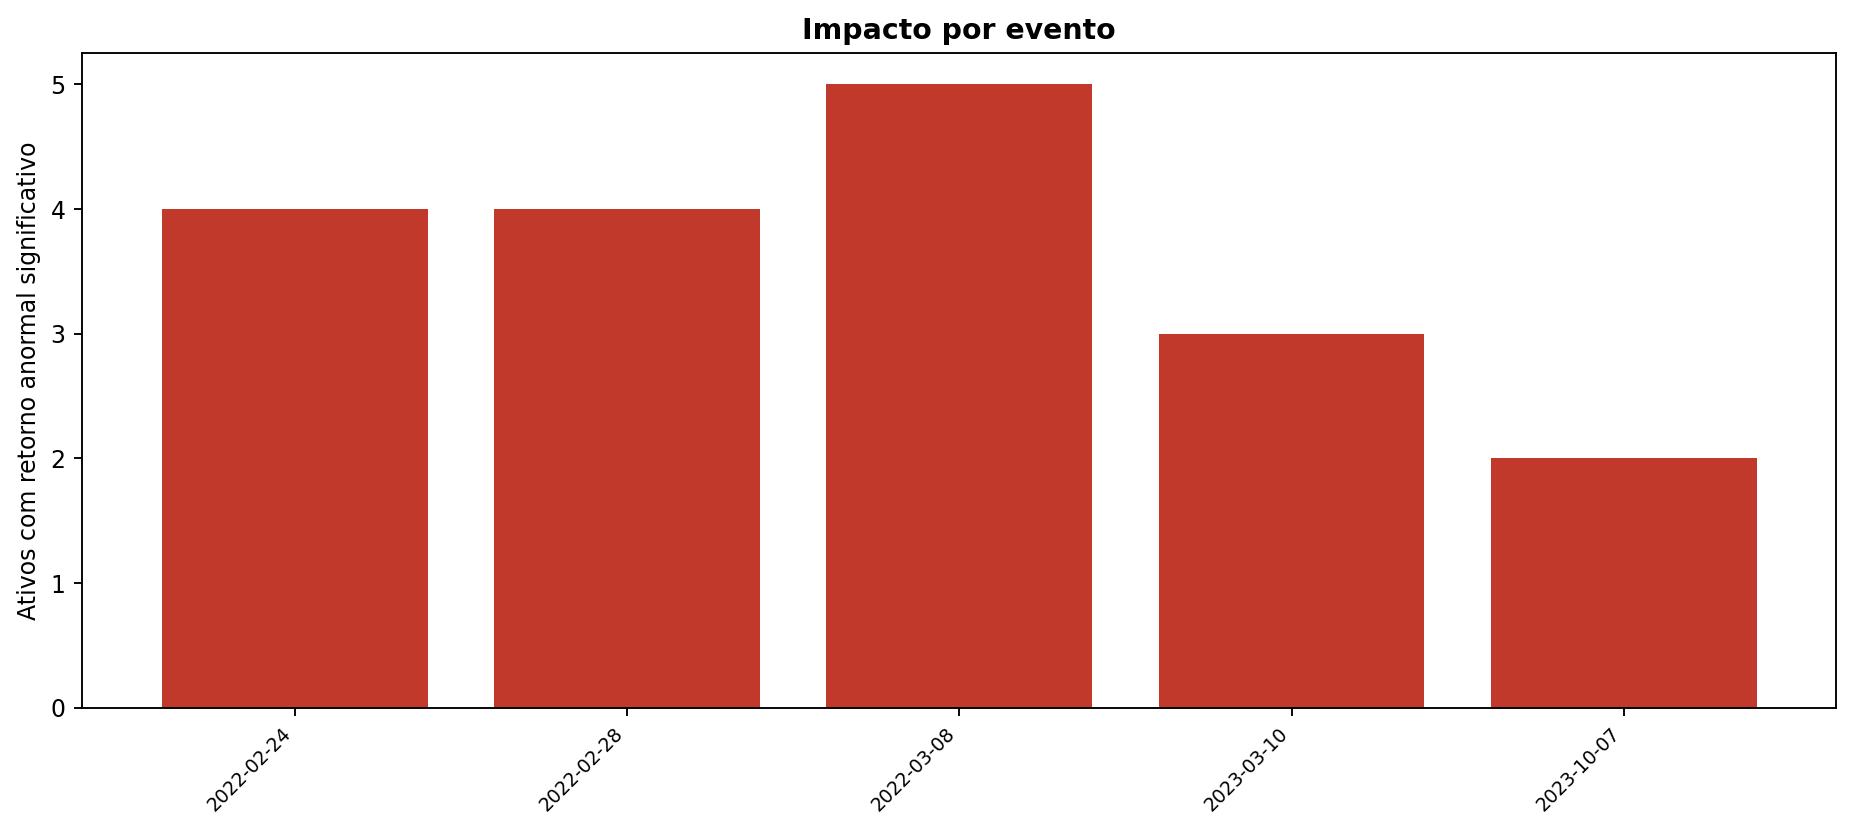
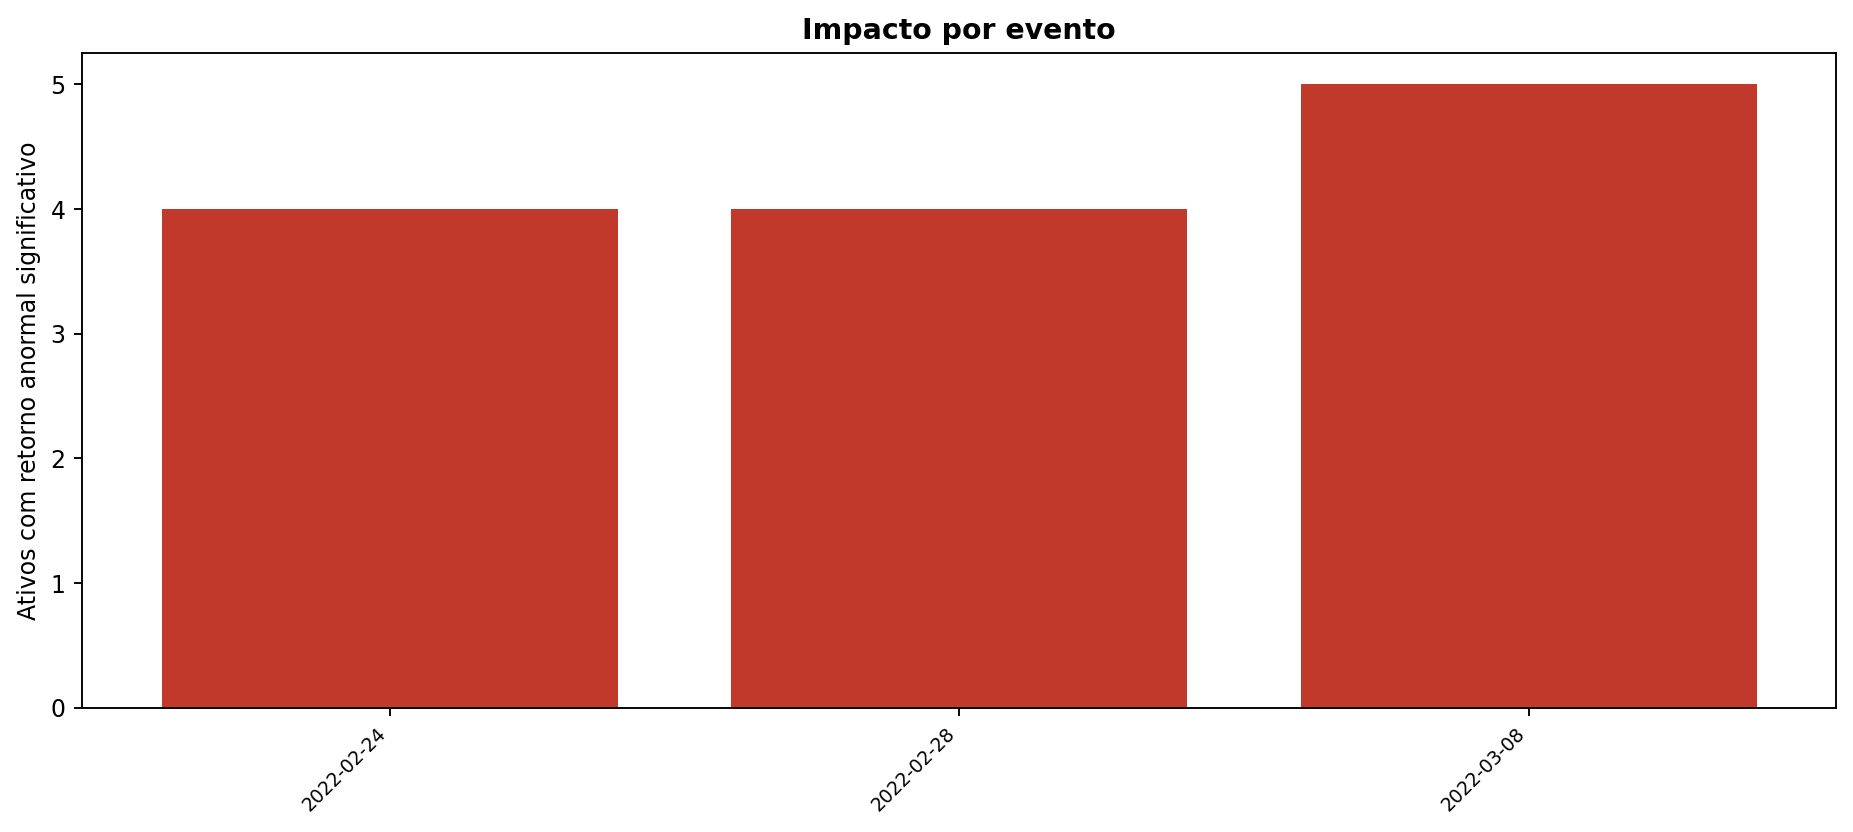
janela de pregoes atualizada

diff --git a/experimentos.py b/experimentos.py
@@ -5,34 +5,33 @@ import networkx as nx
 import fonte_yfinance
 
 
-def retorno_anormal(retornos, ativo, data_evento, janela_evento, janela_estimacao,
-                    indice=fonte_yfinance.INDICE_MERCADO):
+def retorno_anormal(retornos, ativo, data_evento, janela_evento, janela_estimacao, janela_gap=10):
+
     datas = retornos.index
     posicoes = np.where(datas >= pd.to_datetime(data_evento))[0]
     if len(posicoes) == 0:
         return None
     inicio = posicoes[0]
     fim = min(inicio + janela_evento, len(datas) - 1)
-    if inicio - janela_estimacao < 0 or indice not in retornos.columns or ativo == indice:
+    # Janela de estimacao termina 'janela_gap' pregoes antes do evento (carencia)
+    fim_estimacao = inicio - janela_gap
+    inicio_estimacao = fim_estimacao - janela_estimacao
+    if inicio_estimacao < 0:
         return None
 
-    ativo_estimacao = retornos[ativo].iloc[inicio - janela_estimacao:inicio].values
-    indice_estimacao = retornos[indice].iloc[inicio - janela_estimacao:inicio].values
-    if len(ativo_estimacao) < 5 or np.std(indice_estimacao) == 0:
+    estimacao = retornos[ativo].iloc[inicio_estimacao:fim_estimacao].values
+    if len(estimacao) < 5:
         return None
-
-    beta, alfa = np.polyfit(indice_estimacao, ativo_estimacao, 1)
-    residuos = ativo_estimacao - (alfa + beta * indice_estimacao)
-    desvio_residuos = residuos.std()
-    if desvio_residuos == 0:
+    mu = float(np.mean(estimacao))
+    sigma = float(np.std(estimacao, ddof=1))
+    if sigma == 0:
         return None
 
     ativo_evento = retornos[ativo].iloc[inicio:fim + 1].values
-    indice_evento = retornos[indice].iloc[inicio:fim + 1].values
-    car = (ativo_evento - (alfa + beta * indice_evento)).sum()
+    car = float((ativo_evento - mu).sum())
     n = fim - inicio + 1
-    z = car / (desvio_residuos * np.sqrt(n))
-    return float(car), float(z)
+    z = car / (sigma * np.sqrt(n))
+    return car, float(z)
 
 
 def tabela_dataset(tickers, eventos, retornos, periodo):
@@ -68,14 +67,15 @@ def tabela_dijkstra(resultado):
     ])
 
 
-def tabela_validacao(retornos, tickers, eventos, janela_evento, janela_estimacao, limiar_z):
+def tabela_validacao(retornos, tickers, eventos, janela_evento, janela_estimacao, limiar_z,
+                     janela_gap=10):
     linhas = []
     for evento in eventos:
         significativos = 0
         car_total = 0.0
         for ativo in tickers:
             resultado = retorno_anormal(retornos, ativo, evento["data"],
-                                        janela_evento, janela_estimacao)
+                                        janela_evento, janela_estimacao, janela_gap)
             if resultado is None:
                 continue
             car, z = resultado
@@ -91,45 +91,49 @@ def tabela_validacao(retornos, tickers, eventos, janela_evento, janela_estimacao
     return pd.DataFrame(linhas)
 
 
-def arestas_evento_ativo(retornos, tickers, eventos, janela_evento, janela_estimacao, limiar_z):
-    """Lista as arestas de choque evento->ativo: o ativo teve retorno anormal
-    significativo (|z| >= limiar_z) na janela do evento, pelo modelo de mercado."""
+def arestas_evento_ativo(retornos, tickers, eventos, janela_evento, janela_estimacao, limiar_z, janela_gap=10):
     arestas = []
     for evento in eventos:
+        goldstein = float(evento.get("goldstein", 0.0))
         for ativo in tickers:
             resultado = retorno_anormal(retornos, ativo, evento["data"],
-                                        janela_evento, janela_estimacao)
+                                        janela_evento, janela_estimacao, janela_gap)
             if resultado is None:
                 continue
             car, z = resultado
             if abs(z) >= limiar_z:
+                peso = abs(goldstein) * abs(car)
                 arestas.append({
                     "evento": evento["rotulo"],
                     "data": evento["data"],
                     "ativo": ativo,
                     "car": round(float(car), 4),
                     "z": round(float(z), 2),
+                    "goldstein": goldstein,
+                    "peso": round(peso, 4),
                 })
     return arestas
 
 
-def grafo_evento_ativo(retornos, tickers, eventos, janela_evento, janela_estimacao, limiar_z):
-    """Monta o grafo bipartido evento->ativo. Vertices de evento tem bipartite=0
-    e vertices de ativo bipartite=1; cada aresta de choque guarda z, car e o sinal."""
-    grafo = nx.Graph()
+def grafo_evento_ativo(retornos, tickers, eventos, janela_evento, janela_estimacao,
+                       limiar_z, janela_gap=10):
+    # Camada exogena: grafo DIRECIONADO (evento -> ativo).
+    grafo = nx.DiGraph()
     for evento in eventos:
         grafo.add_node(evento["rotulo"], bipartite=0, tipo="evento", data=evento["data"])
     for ativo in tickers:
         grafo.add_node(ativo, bipartite=1, tipo="ativo")
     arestas = arestas_evento_ativo(retornos, tickers, eventos,
-                                   janela_evento, janela_estimacao, limiar_z)
+                                   janela_evento, janela_estimacao, limiar_z, janela_gap)
     for aresta in arestas:
         grafo.add_edge(aresta["evento"], aresta["ativo"], z=aresta["z"], car=aresta["car"],
-                       sinal=1 if aresta["z"] > 0 else -1, weight=abs(aresta["z"]))
+                       goldstein=aresta["goldstein"], peso=aresta["peso"],
+                       sinal=1 if aresta["z"] > 0 else -1, weight=aresta["peso"])
     return grafo, arestas
 
 
 def tabela_evento_ativo(arestas):
+    colunas = ["evento", "data", "ativo", "car", "z", "goldstein", "peso"]
     if not arestas:
-        return pd.DataFrame(columns=["evento", "data", "ativo", "car", "z"])
-    return pd.DataFrame(arestas)
+        return pd.DataFrame(columns=colunas)
+    return pd.DataFrame(arestas)[colunas]

diff --git a/main.py b/main.py
@@ -26,6 +26,8 @@ LIMIAR_CORRELACAO = 0.10
 LIMIAR_Z = 2.0
 JANELA_EVENTO = 3
 JANELA_ESTIMACAO = 60
+JANELA_GAP = 10
+JANELA_CONFLITO = ("2022-02-21", "2022-03-24")
 USAR_DADOS_REAIS = True
 PASTA_SAIDA = "resultados"
 
@@ -73,15 +75,21 @@ def main():
     print("Dijkstra -> origem:", resultado_dijkstra["origem"],
           "| primeiros:", [a for a, _ in resultado_dijkstra["primeiros_atingidos"]])
 
-    validacao = experimentos.tabela_validacao(retornos, tickers, eventos,
-                                              JANELA_EVENTO, JANELA_ESTIMACAO, LIMIAR_Z)
+    # Camada estrutural (MST/Louvain/Dijkstra) usa o periodo cheio; a camada exogena
+    # (estudo de eventos) foca nos eventos do conflito Russia-Ucrania.
+    eventos_conflito = [e for e in eventos
+                        if JANELA_CONFLITO[0] <= e["data"] <= JANELA_CONFLITO[1]]
+    print("Eventos do conflito analisados:", len(eventos_conflito))
+
+    validacao = experimentos.tabela_validacao(retornos, tickers, eventos_conflito,
+                                              JANELA_EVENTO, JANELA_ESTIMACAO, LIMIAR_Z, JANELA_GAP)
 
     grafo_evt_ativo, arestas_choque = experimentos.grafo_evento_ativo(
-        retornos, tickers, eventos, JANELA_EVENTO, JANELA_ESTIMACAO, LIMIAR_Z)
+        retornos, tickers, eventos_conflito, JANELA_EVENTO, JANELA_ESTIMACAO, LIMIAR_Z, JANELA_GAP)
     print("Arestas de choque evento->ativo:", len(arestas_choque))
 
     tabelas = {
-        "tab_dataset": experimentos.tabela_dataset(tickers, eventos, retornos, f"{DATA_INICIO} a {DATA_FIM}"),
+        "tab_dataset": experimentos.tabela_dataset(tickers, eventos_conflito, retornos, f"{DATA_INICIO} a {DATA_FIM}"),
         "tab_mst": experimentos.tabela_mst(metricas_arvore),
         "tab_louvain": experimentos.tabela_louvain(detalhe_comunidades),
         "tab_dijkstra": experimentos.tabela_dijkstra(resultado_dijkstra),

diff --git a/visualizacao.py b/visualizacao.py
@@ -122,13 +122,18 @@ def desenhar_evento_ativo(grafo, setor_do_ativo, caminho="fig_evento_ativo.png",
     altura = max(6.0, 0.7 * max(len(eventos), len(ativos)))
     plt.figure(figsize=(12, altura))
 
-    # Arestas: azul = retorno anormal positivo, vermelho = negativo; largura ~ |z|.
+    # Arestas DIRECIONADAS (setas evento->ativo): azul = AR positivo, vermelho = negativo;
+    # espessura proporcional ao peso w = |Goldstein| x |CAR|.
+    pesos = [d.get("peso", abs(d.get("z", 0.0))) for _, _, d in grafo.edges(data=True)]
+    peso_max = max(pesos) if pesos else 1.0
     for origem, destino, dados in grafo.edges(data=True):
         z = dados.get("z", 0.0)
         cor = "#2471a3" if z > 0 else "#c0392b"
-        largura = 1.0 + min(abs(z), 10) / 2.2
+        peso = dados.get("peso", abs(z))
+        largura = 1.0 + 5.0 * (peso / peso_max if peso_max else 0.0)
         nx.draw_networkx_edges(grafo, posicoes, edgelist=[(origem, destino)],
-                               edge_color=cor, width=largura, alpha=0.85)
+                               edge_color=cor, width=largura, alpha=0.85,
+                               arrows=True, arrowstyle="-|>", arrowsize=12, node_size=900)
 
     nx.draw_networkx_nodes(grafo, posicoes, nodelist=eventos, node_shape="s",
                            node_color="#34495e", node_size=900, edgecolors="white",
@@ -155,7 +160,7 @@ def desenhar_evento_ativo(grafo, setor_do_ativo, caminho="fig_evento_ativo.png",
     legenda += [Patch(color=cor, label=setor) for setor, cor in cor_do_setor.items()]
     plt.legend(handles=legenda, loc="upper center", bbox_to_anchor=(0.5, -0.01),
                ncol=3, fontsize=8, frameon=False)
-    titulo = "Grafo bipartido evento -> ativo (choques |z| >= 2)"
+    titulo = "Camada exogena: grafo direcionado evento -> ativo (|z| >= 2)"
     if subtitulo:
         titulo += f"\n{subtitulo}"
     plt.title(titulo, fontweight="bold", fontsize=11)

diff --git a/fonte_yfinance.py b/fonte_yfinance.py
@@ -15,9 +15,6 @@ except ImportError:
 INDICE_MERCADO = "^GSPC"
 PASTA_CACHE = "cache_yf"
 
-# Universo do estudo: 7 ativos, um por setor. Os rotulos sao os usados nas
-# figuras e no texto. O indice de mercado (^GSPC) NAO e vertice do grafo: serve
-# apenas de baseline no Modelo de Mercado (calculo do retorno anormal).
 CATALOGO_ATIVOS = {
     "Energia": ["BZ=F"],
     "Defesa": ["LMT"],
@@ -28,8 +25,6 @@ CATALOGO_ATIVOS = {
     "Mercado Brasileiro": ["PETR4.SA"],
 }
 
-# Setores cujos ativos recebem o choque sintetico nos dias de evento (usado
-# apenas no gerador offline gerar_retornos_sinteticos, para testes sem rede).
 SETORES_SENSIVEIS = ("Energia", "Defesa", "Mercado Brasileiro",
                      "Agrobusiness", "Safe Havens", "Indices e Cambio")
 